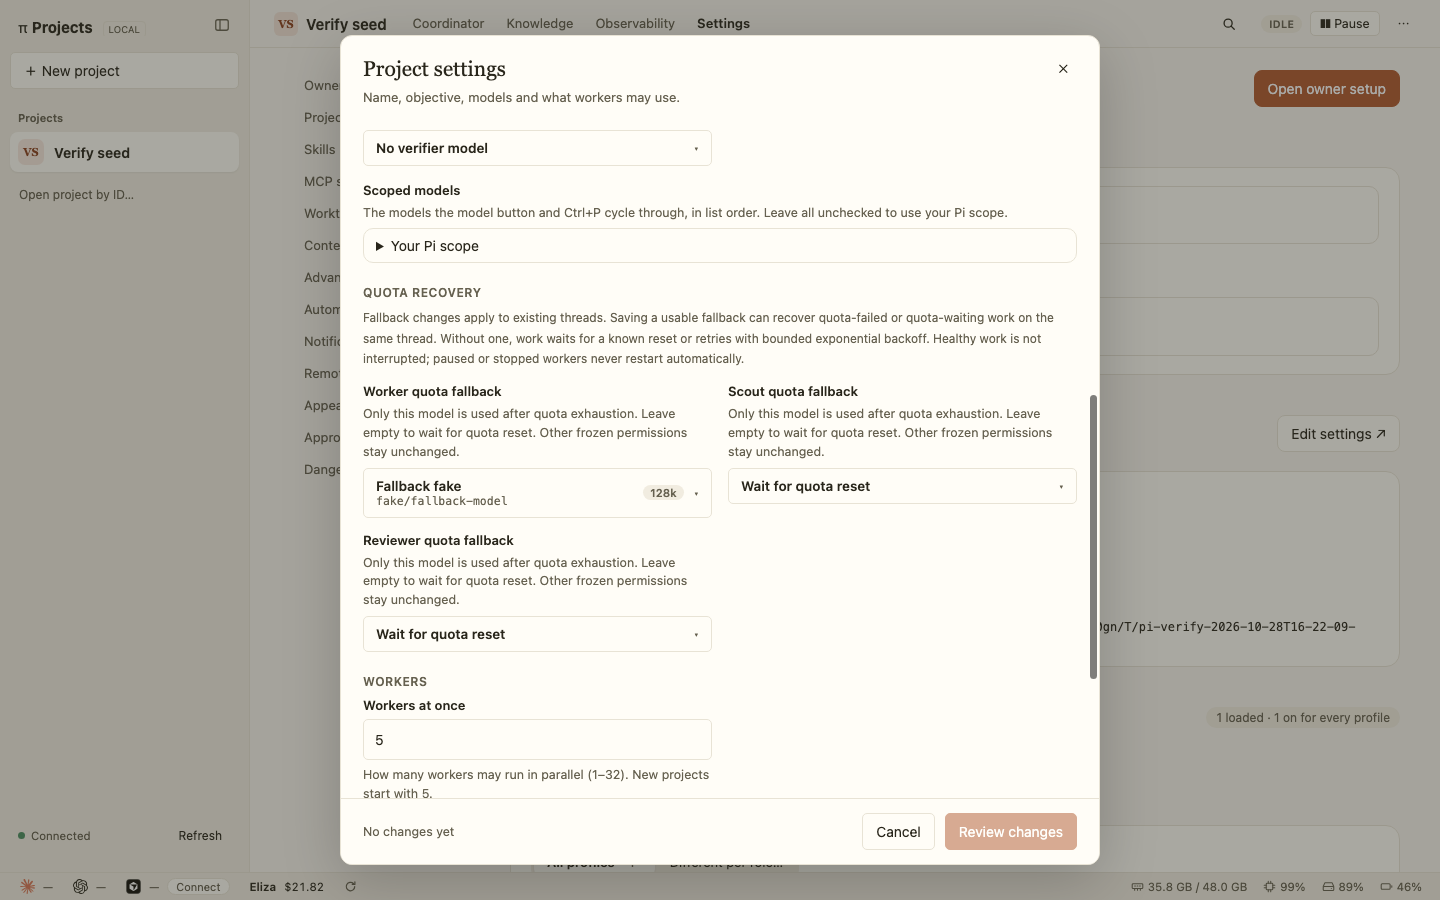
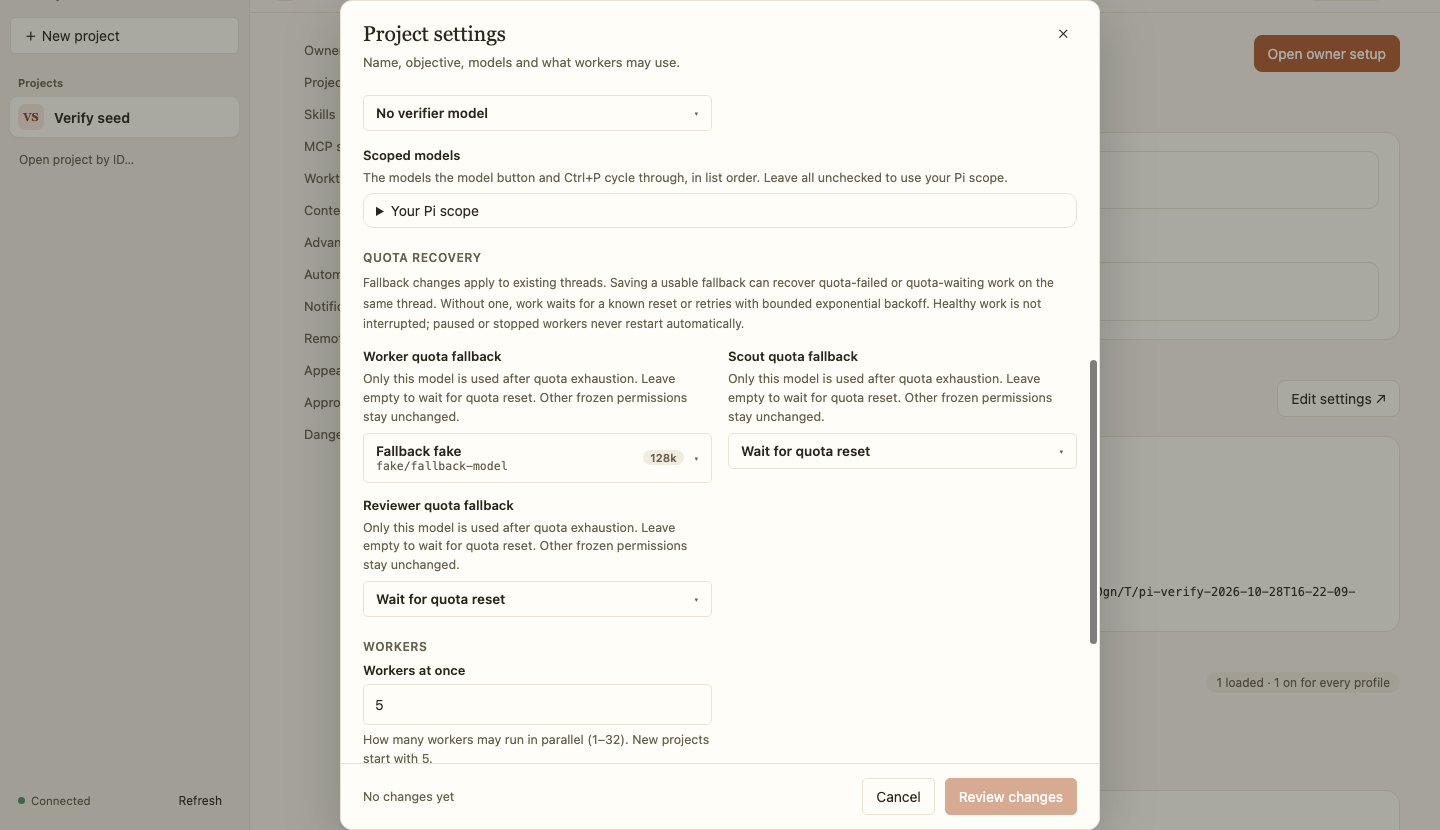
Crop unrelated desktop status bar from evidence screenshots and drop a chronology claim

diff --git a/docs/quota-fallback-live-apply-evidence.md b/docs/quota-fallback-live-apply-evidence.md
@@ -30,7 +30,7 @@ The candidate commit is the PR head at the time you read this. The evidence was 
    - `npm run check` passes (tsc).
    - `logs/npm-run-verify.log`: 21 of 22 passed. The one non-pass is `coordinator-efficiency-e2e`, which is listed in `knownFailing` in `scripts/e2e-manifest.json`.
    - `logs/full-suite.log`: 110 of 173 passed, 62 reported as KNOWN-FAIL, and 1 unexpected failure: `telegram-media-e2e`, which the project already documents as flaky on readiness. It passes inside `npm run verify` and alone (`logs/telegram-media-serial.log`). I did not change or waive it. The earlier load flakes (`status-dots`, `follow-prs`, `verification-trusted-browser`) passed in this run. `scoped-models-e2e` is in the known list but passes, a manifest cleanup unrelated to this PR. The 62 known entries are the manifest's claim, and I did not re-run main.
-   - Screenshots `browser/03-review.png` (confirmation dialog) and `browser/04-saved.png` (saved fallback in settings) were inspected.
+   - Screenshots (bottom desktop status bar cropped out to remove unrelated account and system information) `browser/03-review.png` (confirmation dialog) and `browser/04-saved.png` (saved fallback in settings) were inspected.
 6. Draft PR and no live mutations.
    - Draft PR 28, no merge or deployment.
 
@@ -51,4 +51,4 @@ The independent verifier saw `worker-quota-recovery-e2e` fail waiting for a quot
 
 ## Failure-mode specs
 
-Each regression script has a companion `scripts/<name>-failures.md` listing the failures its assertions catch and its limits. They describe the assertions as they stand now. For the earlier scripts they were written after the code, not before it.
+Each regression script has a companion `scripts/<name>-failures.md` listing the failures its assertions catch and its limits.
